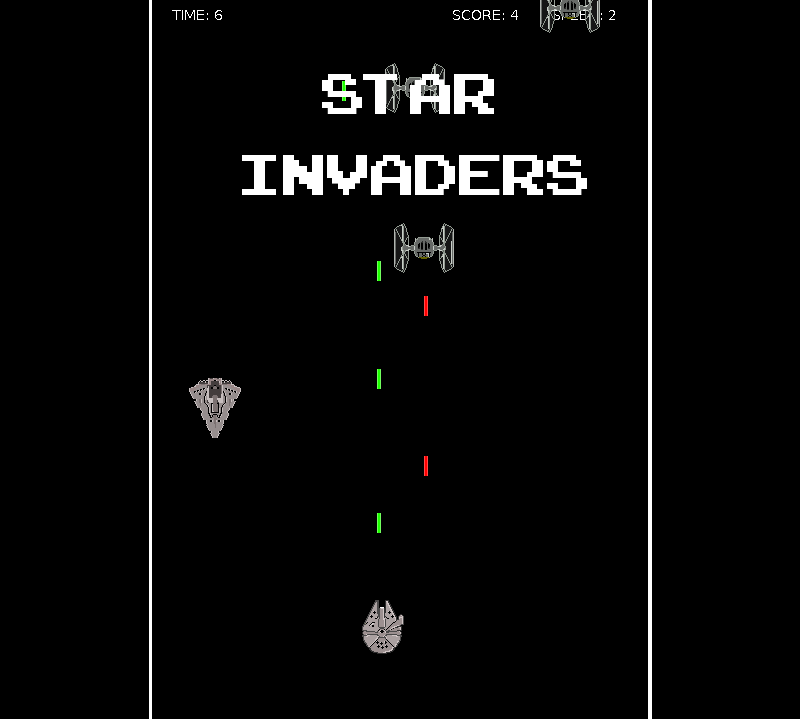
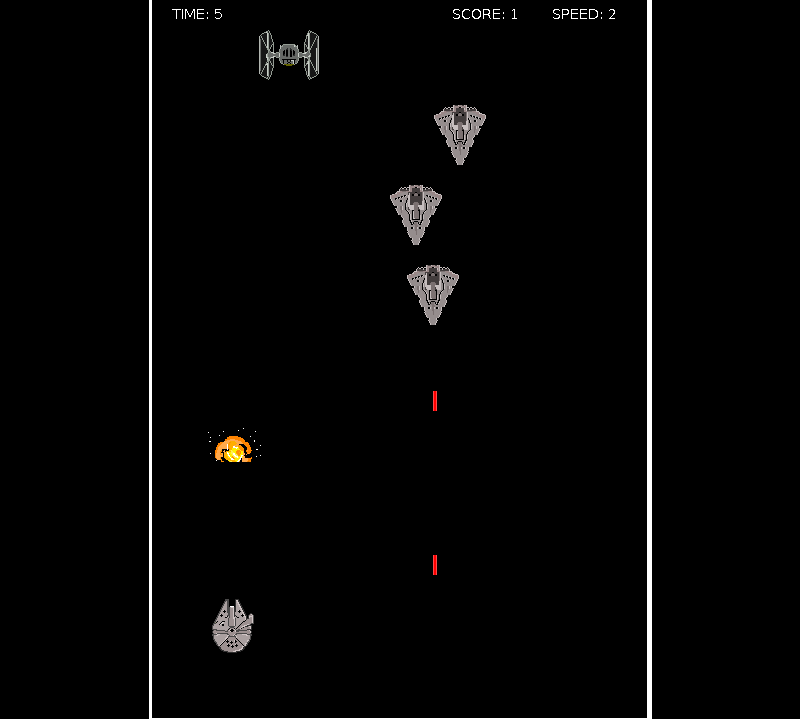
Added image slide shows to project descriptions. Updated project pictures.

diff --git a/portfolio/index.html b/portfolio/index.html
@@ -57,6 +57,9 @@
                         <a href="#portfolio-team">Team projects</a>
                     </li>
                     <li class="page-scroll">
+                        <a href="#about">About me</a>
+                    </li>
+                    <li class="page-scroll">
                         <a href="#contact">Contact</a>
                     </li>
                 </ul>
@@ -140,9 +143,11 @@
                                 <i class="fa fa-search-plus fa-3x"></i>
                             </div>
                         </div>
-                        <img src="img/portfolio-personal/StarInvaders2.png" class="img-responsive" alt="">
+                        <img src="img/portfolio-personal/StarInvaders1.png" class="img-responsive" alt="">
                     </a>
                 </div>
+
+                <!-- New Project -->
                 <div class="col-sm-4 portfolio-item">
                     <a href="#portfolioModal5" class="portfolio-link" data-toggle="modal">
                         <div class="caption">
@@ -153,6 +158,8 @@
                         <img src="img/portfolio-placeholder.png" class="img-responsive" alt="">
                     </a>
                 </div>
+
+                <!-- New Project -->
                 <div class="col-sm-4 portfolio-item">
                     <a href="#portfolioModal6" class="portfolio-link" data-toggle="modal">
                         <div class="caption">
@@ -356,7 +363,47 @@
                         <div class="modal-body">
                             <h2>Pokemon Clone</h2>
                             <hr class="star-primary">
-                            <img src="img/portfolio-personal/PokemonClone_collage.png" class="img-responsive img-centered" alt="">
+
+                            <!--Image slideshow-->
+                            <div id="imageCarousel1" class="carousel slide" data-ride="carousel">
+    							<!-- Indicators -->
+    							<ol class="carousel-indicators">
+      								<li data-target="#imageCarousel1" data-slide-to="0" class="active"></li>
+      								<li data-target="#imageCarousel1" data-slide-to="1"></li>
+							    	<li data-target="#imageCarousel1" data-slide-to="2"></li>
+							    	<li data-target="#imageCarousel1" data-slide-to="3"></li>
+							    </ol>
+
+    							<!-- Wrapper for slides -->
+							    <div class="carousel-inner" role="listbox">
+							      <div class="item active">
+							        <img src="img/portfolio-personal/PokemonClone1.png">
+							      </div>
+
+							      <div class="item">
+							        <img src="img/portfolio-personal/PokemonClone2.png">
+							      </div>
+							    
+							      <div class="item">
+							        <img src="img/portfolio-personal/PokemonClone3.png">
+							      </div>
+
+							      <div class="item">
+							        <img src="img/portfolio-personal/PokemonClone4.png">
+							      </div>
+							    </div>
+
+							    <!-- Left and right controls -->
+							    <a class="left carousel-control img-slider" href="#imageCarousel1" role="button" data-slide="prev">
+							      <span class="glyphicon glyphicon-chevron-left" aria-hidden="true"></span>
+							      <span class="sr-only">Previous</span>
+							    </a>
+							    <a class="right carousel-control img-slider" href="#imageCarousel1" role="button" data-slide="next">
+							      <span class="glyphicon glyphicon-chevron-right" aria-hidden="true"></span>
+							      <span class="sr-only">Next</span>
+							    </a>
+							 </div>
+
                             <p>An attempt to recreate the classic Pokemon game originally played on Gameboy consoles using C++ and the SFML graphcis library. The aim is to make adding new features and content such as characters and maps as simple as possible. The development is still ongoing.</p>
                             <ul class="list-inline item-details">
                                 <li>Code:
@@ -393,7 +440,42 @@
                         <div class="modal-body">
                             <h2>Paint++</h2>
                             <hr class="star-primary">
-                            <img src="img/portfolio-personal/Paint_collage.png" class="img-responsive img-centered" alt="">
+
+                            <!--Image slideshow-->
+                            <div id="imageCarousel2" class="carousel slide" data-ride="carousel">
+    							<!-- Indicators -->
+    							<ol class="carousel-indicators">
+      								<li data-target="#imageCarousel2" data-slide-to="0" class="active"></li>
+      								<li data-target="#imageCarousel2" data-slide-to="1"></li>
+							    	<li data-target="#imageCarousel2" data-slide-to="2"></li>
+							    </ol>
+
+    							<!-- Wrapper for slides -->
+							    <div class="carousel-inner" role="listbox">
+							      <div class="item active">
+							        <img src="img/portfolio-personal/Paint1.png">
+							      </div>
+
+							      <div class="item">
+							        <img src="img/portfolio-personal/Paint2.png">
+							      </div>
+							    
+							      <div class="item">
+							        <img src="img/portfolio-personal/Paint3.png">
+							      </div>
+							    </div>
+
+							    <!-- Left and right controls -->
+							    <a class="left carousel-control img-slider" href="#imageCarousel2" role="button" data-slide="prev">
+							      <span class="glyphicon glyphicon-chevron-left" aria-hidden="true"></span>
+							      <span class="sr-only">Previous</span>
+							    </a>
+							    <a class="right carousel-control img-slider" href="#imageCarousel2" role="button" data-slide="next">
+							      <span class="glyphicon glyphicon-chevron-right" aria-hidden="true"></span>
+							      <span class="sr-only">Next</span>
+							    </a>
+							 </div>
+
                             <p>Paint++ is a simple raster graphics program with the idea of keeping the simplicity of Microsoft Paint yet adding more features and tools. The main goal of the project to apply my knowledge in design patterns and write code that is easily upgraded and thus enables plugins - adding new tools and features to the original program.</p>
                             <ul class="list-inline item-details">
                                 <li>Code:
@@ -430,7 +512,37 @@
                         <div class="modal-body">
                             <h2>Pong Plus</h2>
                             <hr class="star-primary">
-                            <img src="img/portfolio-personal/Pong2.png" class="img-responsive img-centered" alt="">
+
+                            <!--Image slideshow-->
+                            <div id="imageCarousel3" class="carousel slide" data-ride="carousel">
+    							<!-- Indicators -->
+    							<ol class="carousel-indicators">
+      								<li data-target="#imageCarousel3" data-slide-to="0" class="active"></li>
+      								<li data-target="#imageCarousel3" data-slide-to="1"></li>
+							    </ol>
+
+    							<!-- Wrapper for slides -->
+							    <div class="carousel-inner" role="listbox">
+							      <div class="item active">
+							        <img src="img/portfolio-personal/Pong1.png">
+							      </div>
+
+							      <div class="item">
+							        <img src="img/portfolio-personal/Pong2.png">
+							      </div>
+							    </div>
+
+							    <!-- Left and right controls -->
+							    <a class="left carousel-control img-slider" href="#imageCarousel3" role="button" data-slide="prev">
+							      <span class="glyphicon glyphicon-chevron-left" aria-hidden="true"></span>
+							      <span class="sr-only">Previous</span>
+							    </a>
+							    <a class="right carousel-control img-slider" href="#imageCarousel3" role="button" data-slide="next">
+							      <span class="glyphicon glyphicon-chevron-right" aria-hidden="true"></span>
+							      <span class="sr-only">Next</span>
+							    </a>
+							 </div>
+
                             <p>Pong Plus is a retro looking arcade game based on the legendary pong. While remaining true to the original in terms of graphics, the game adds new mechanics to the classic board and ball, making it both fun and challenging.</p>
                             <p>This project has been tested on more players and is currently not beeing further developed.</p>
                             <ul class="list-inline item-details">
@@ -466,9 +578,44 @@
                 <div class="row">
                     <div class="col-lg-8 col-lg-offset-2">
                         <div class="modal-body">
-                            <h2>Project Title</h2>
+                            <h2>Star Invaders</h2>
                             <hr class="star-primary">
-                            <img src="img/portfolio-personal/StarInvaders1.png" class="img-responsive img-centered" alt="">
+
+                            <!--Image slideshow-->
+                            <div id="imageCarousel4" class="carousel slide" data-ride="carousel">
+    							<!-- Indicators -->
+    							<ol class="carousel-indicators">
+      								<li data-target="#imageCarousel4" data-slide-to="0" class="active"></li>
+      								<li data-target="#imageCarousel4" data-slide-to="1"></li>
+      								<li data-target="#imageCarousel4" data-slide-to="1"></li>
+							    </ol>
+
+    							<!-- Wrapper for slides -->
+							    <div class="carousel-inner" role="listbox">
+							      <div class="item active">
+							        <img src="img/portfolio-personal/StarInvaders1.png">
+							      </div>
+
+							      <div class="item">
+							        <img src="img/portfolio-personal/StarInvaders2.png">
+							      </div>
+
+							      <div class="item">
+							        <img src="img/portfolio-personal/StarInvaders3.png">
+							      </div>
+							    </div>
+
+							    <!-- Left and right controls -->
+							    <a class="left carousel-control img-slider" href="#imageCarousel4" role="button" data-slide="prev">
+							      <span class="glyphicon glyphicon-chevron-left" aria-hidden="true"></span>
+							      <span class="sr-only">Previous</span>
+							    </a>
+							    <a class="right carousel-control img-slider" href="#imageCarousel4" role="button" data-slide="next">
+							      <span class="glyphicon glyphicon-chevron-right" aria-hidden="true"></span>
+							      <span class="sr-only">Next</span>
+							    </a>
+							 </div>
+
                             <p>A fun and challenging retro looking game partially based on the classic Space Invaders and similar arcade shooter games. It was made in a Star Wars theme and thus the name. The game relies on simple mechanics and cool 8bit style graphics with one-sprite explosions to provide a fun experience to the player.</p>
                             <p>Development was done in Java with no external libraries. All art in the game is original.</p>
                             <ul class="list-inline item-details">
@@ -580,7 +727,7 @@
                         <div class="modal-body">
                             <h2>PARADE</h2>
                             <hr class="star-primary">
-                            <iframe id="portfolio-video" src="https://player.vimeo.com/video/198624081" width="640" height="360" frameborder="0" webkitallowfullscreen mozallowfullscreen allowfullscreen></iframe>
+                            <iframe id="portfolio-video" src="https://player.vimeo.com/video/198624081" width="700" height="400" frameborder="0" webkitallowfullscreen mozallowfullscreen allowfullscreen></iframe>
                             <p>PARADE (Public Augmented-Reality ADvertising Experience) is a form of interactive advertisement. In our developed prototype, you are able to interact with a car commercial in real-time, using nothing but you phone and no additional software. By connecting to a website you are given complete control over the cars orientation with additional features such as zooming, switching lights, changing the color or opening doors. As a fun feature, we also added a minigame where you are able to drive the car. We used a free open-source car model and developed all additional graphics and software ourselves.</p>
                             <p>The project was done as part of the Advanced Graphics course at KTH (Royal Institute of Technology) in Stockholm, Sweden.</p>
                             <p><strong>More info on website!</strong></p>
@@ -616,7 +763,7 @@
                         <div class="modal-body">
                             <h2>PlanBLOCKS</h2>
                             <hr class="star-primary">
-                            <iframe id="portfolio-video" src="https://player.vimeo.com/video/198780939" width="640" height="360" frameborder="0" webkitallowfullscreen mozallowfullscreen allowfullscreen></iframe>
+                            <iframe id="portfolio-video" src="https://player.vimeo.com/video/198780939" width="700" height="400" frameborder="0" webkitallowfullscreen mozallowfullscreen allowfullscreen></iframe>
                             <p>PlanBLOCKS is a virtual reality game that places you in the middle of an attacked village. Use your body motions to throw axes, block attacks with a shield or evade them and defeat incoming enemies. Achieve complete immersion without any handheld controlers using a VR headset and a body motion sensor.</p>
                             <p>The project was developed as part of the Advanced Graphics course at KTH and was showcased at ForskarFredag and Comicon in Stockholm, Sweden where it got positive feedback from people of all ages.</p>
                             <p><strong>More info on website!</strong></p>

diff --git a/portfolio/css/freelancer.css b/portfolio/css/freelancer.css
@@ -523,6 +523,9 @@ fieldset[disabled] .btn-success.active {
 }
 
 #portfolio-video {
-  padding-top: 20px;
   padding-bottom: 20px;
+}
+
+.img-slider {
+  height: 95%;
 }
